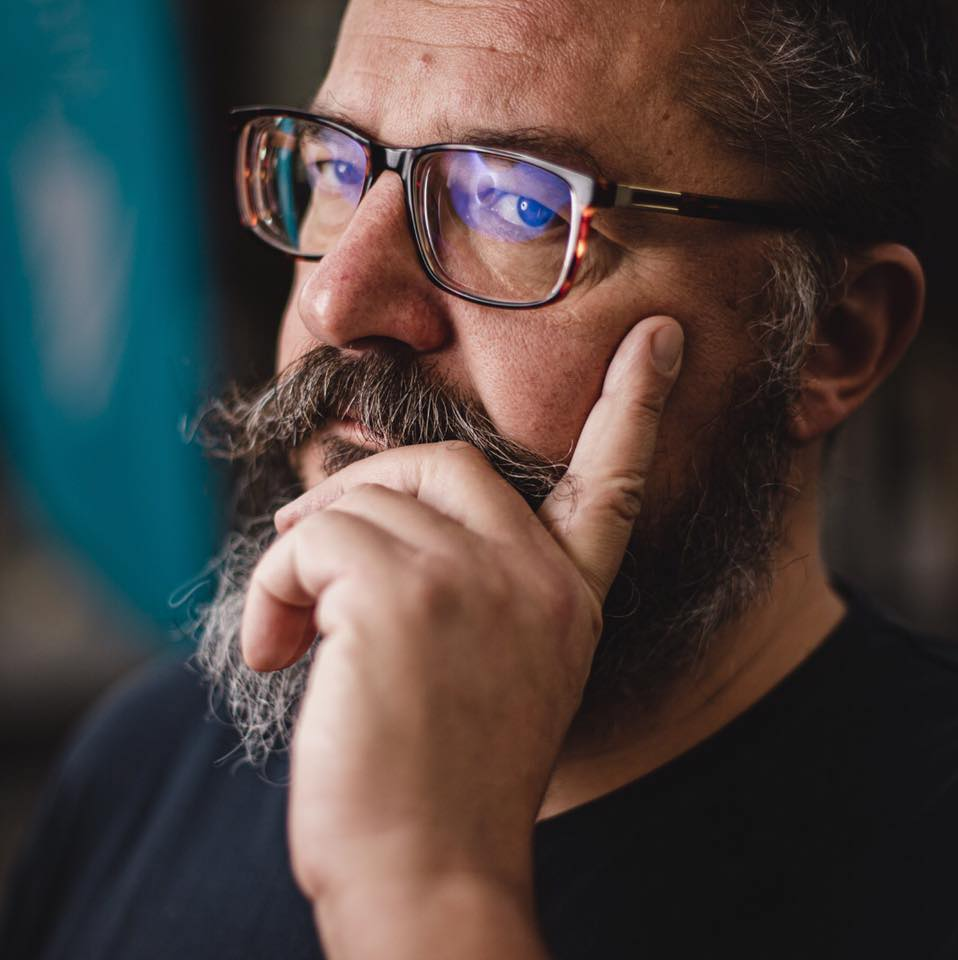
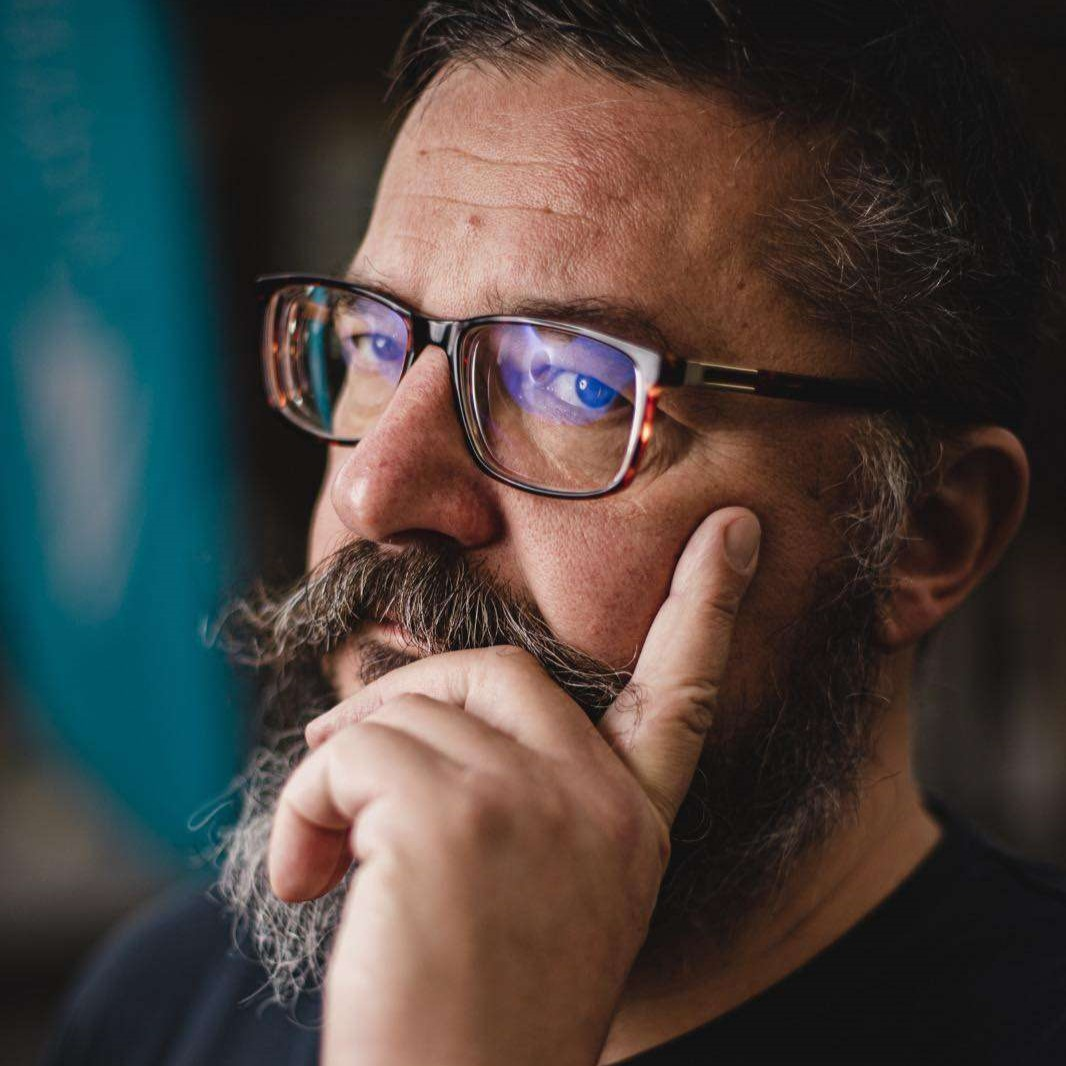
href fix

diff --git a/konferencja.html b/konferencja.html
@@ -117,12 +117,18 @@
         <h1>Prelegenci</h1>
         <div class="prelegenci">
             <div id="prl1" class="prelegent">
-                <a href="https://www.facebook.com/piotr.szymkowiak.3139"><img class="blue-filter" src="./assets/onas.png" alt="Piotr Szymkowiak"></a>
+                <a href="https://www.facebook.com/szymkowiak.piotr" target="_blank"><img src="./prelegenci/piotr_szymkowiak.jpg" alt="Piotr Szymkowiak"></a>
                 <h2>Piotr Szymkowiak</h2>
-                <p>???</p>
+                <p>Piotr Szymkowiak to osoba, która rzuca inspirujące światło na wybór zawodu przyszłości. 
+                    Jego doświadczenie obejmuje zarządzanie zespołami sprzedaży w czołowych sieciach stacji lokalnych Radia ESKA, Zet i RMF. 
+                    Jest twórcą „dziarskich” zespołów handlowych, innowacyjnych akcji marketingowych i reklam. 
+                    Ale w jego portfolio znajduje się także prowadzeniu restauracji, sieci bistr i firmy cateringowe, a także … 
+                    sprzedaż kontenerów morskich czy praca w profesjonalnej kuchni hotelowej. 
+                    Warto też wspomnieć o jego wystąpieniu na TEDex Woman Warsaw w 2021 roku, gdzie zaprezentował przemówienie "Gen zaradności", opowiadając o doświadczeniach z czasu pandemii: 
+                    pieczeniu i sprzedaży torów bezowych oraz rzemieślniczej produkcji kimchi, jako przykładów elastyczności i kreatywności w nieprzewidywalnie zmiennych czasach.</p>
             </div>
             <div id="prl2" class="prelegent">
-                <a href="https://www.instagram.com/larkhman/"><img src="./prelegenci/piotr_skowron.jpg" alt="dr Piotr Skowron"></a>
+                <a href="https://www.instagram.com/larkhman/" target="_blank"><img src="./prelegenci/piotr_skowron.jpg" alt="dr Piotr Skowron"></a>
                 <h2>dr Piotr Skowron</h2>
                 <p>Piotr Skowron urodzony w 1984r. w Łodzi. Absolwent Akademii Sztuk Pięknych
                     im. W. Strzemińskiego w Łodzi. Od 2014 pracuje jako wykładowca na macierzystej uczelni
@@ -133,7 +139,7 @@
                     podstawowe środki artystycznego wyrazu - linie, płaszczyzny, kontrasty kolorów i faktur.</p>
             </div>
             <div id="prl3" class="prelegent">
-                <a href="https://www.linkedin.com/in/grzegorz-liskiewicz/"><img src="./prelegenci/grzegorz_liskiewicz.jpg" alt="dr hab. Grzegorz Liśkiewicz"></a>
+                <a href="https://www.linkedin.com/in/grzegorz-liskiewicz/" target="_blank"><img src="./prelegenci/grzegorz_liskiewicz.jpg" alt="dr hab. Grzegorz Liśkiewicz"></a>
                 <h2>dr hab. Grzegorz Liśkiewicz</h2>
                 <p>Badacz i przedsiębiorca. Aktywny promotor idei "uniwersytetu zaangażowanego" łączącego: zaangażowaną edukację, transfer technologii, 
                     odpowiedzialność społeczną, zaangażowanie publiczne. Kierownik zakładu Turbin i Sprężarek na Politechnice Łódzkiej. 
@@ -145,17 +151,17 @@
                     Strathclyde Alumni Society. Mentor w programach TopMinds oraz Startups by Łódź.</p>
             </div>
             <div id="prl4" class="prelegent">
-                <a href="https://www.instagram.com/biokoderka/"><img src="./prelegenci/Wiktoria-Wilman.png" alt="Wiktoria Wilman"></a>
+                <a href="https://www.instagram.com/biokoderka/" target="_blank"><img src="./prelegenci/Wiktoria-Wilman.png" alt="Wiktoria Wilman"></a>
                 <h2>Wiktoria Wilman</h2>
                 <p>Bioinformatyk i twórca bioinformatycznych treści, absolwentka kierunku Bioinformatyka na UPWr, członek Rady Programowej Kierunku Bioinformatyka na UPWr. W wolnych chwilach tworzy bezpłatne treści bioinformatyczne na swoich kanałach społecznościowych jako <a href="https://www.instagram.com/biokoderka/">@biokoderka</a> bazując na swoim doświadczeniu w branży BioTech <br>i MedTech.</p>
             </div>
             <div id="prl5" class="prelegent">
-                <a href=""><img class="blue-filter" src="./assets/onas.png" alt="Katarzyna Adamowicz"></a>
+                <a href="" target="_blank"><img class="blue-filter" src="./assets/onas.png" alt="Katarzyna Adamowicz"></a>
                 <h2><!--Katarzyna Adamowicz--></h2>
                 <p>???</p>
             </div>
             <div id="prl6" class="prelegent">
-                <a href=""><img class="blue-filter" src="./assets/onas.png" alt="Aleksandra Przygodzka"></a>
+                <a href="" target="_blank"><img class="blue-filter" src="./assets/onas.png" alt="Aleksandra Przygodzka"></a>
                 <h2><!--Aleksandra Przygodzka--></h2>
                 <p>???</p>
             </div>
